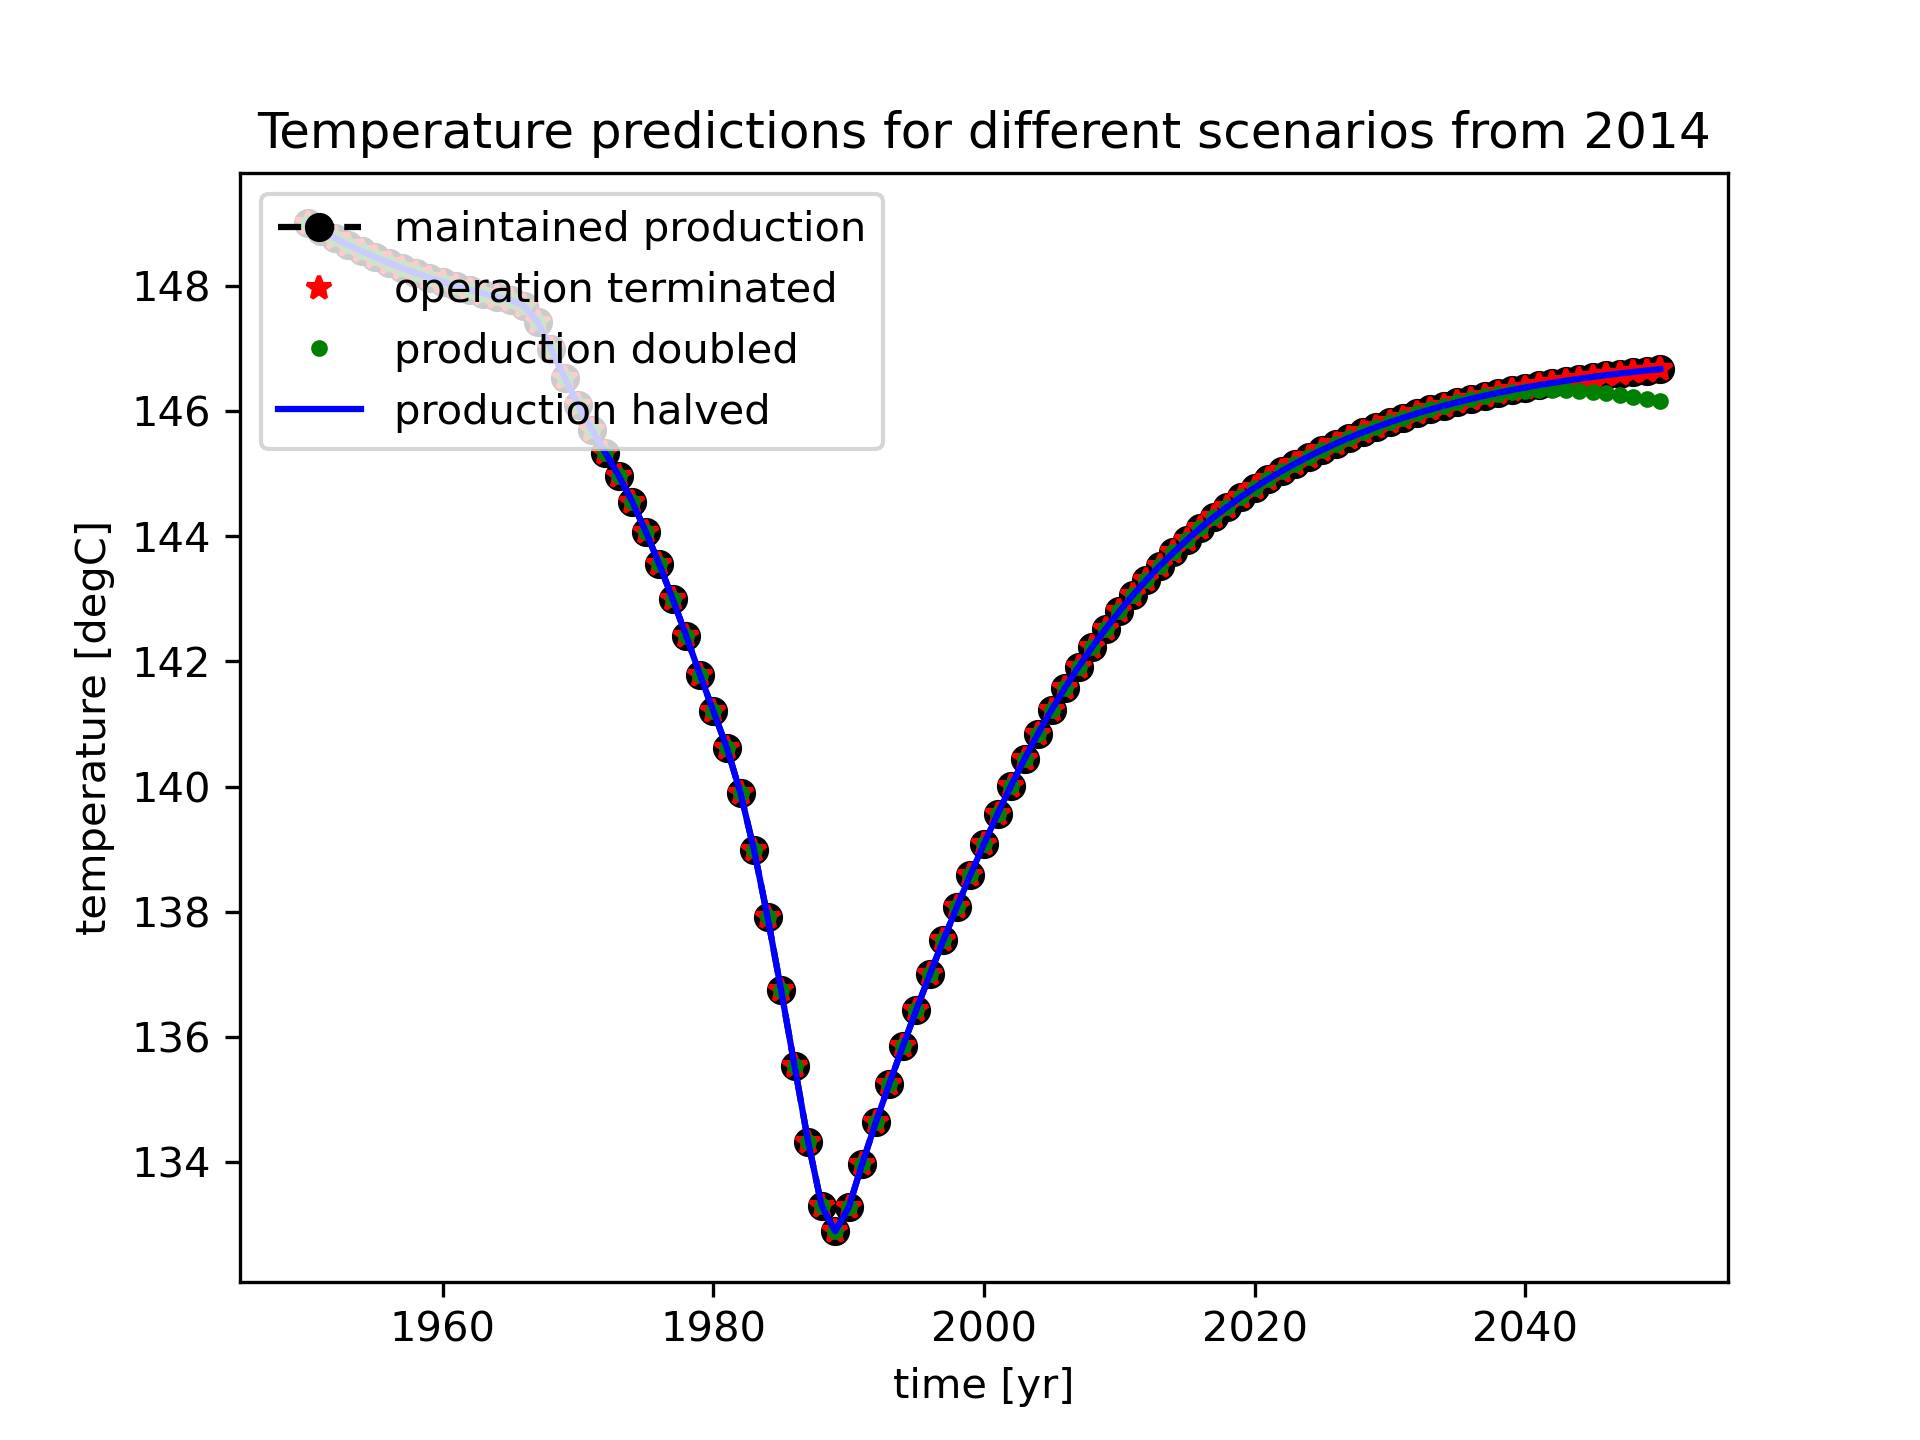
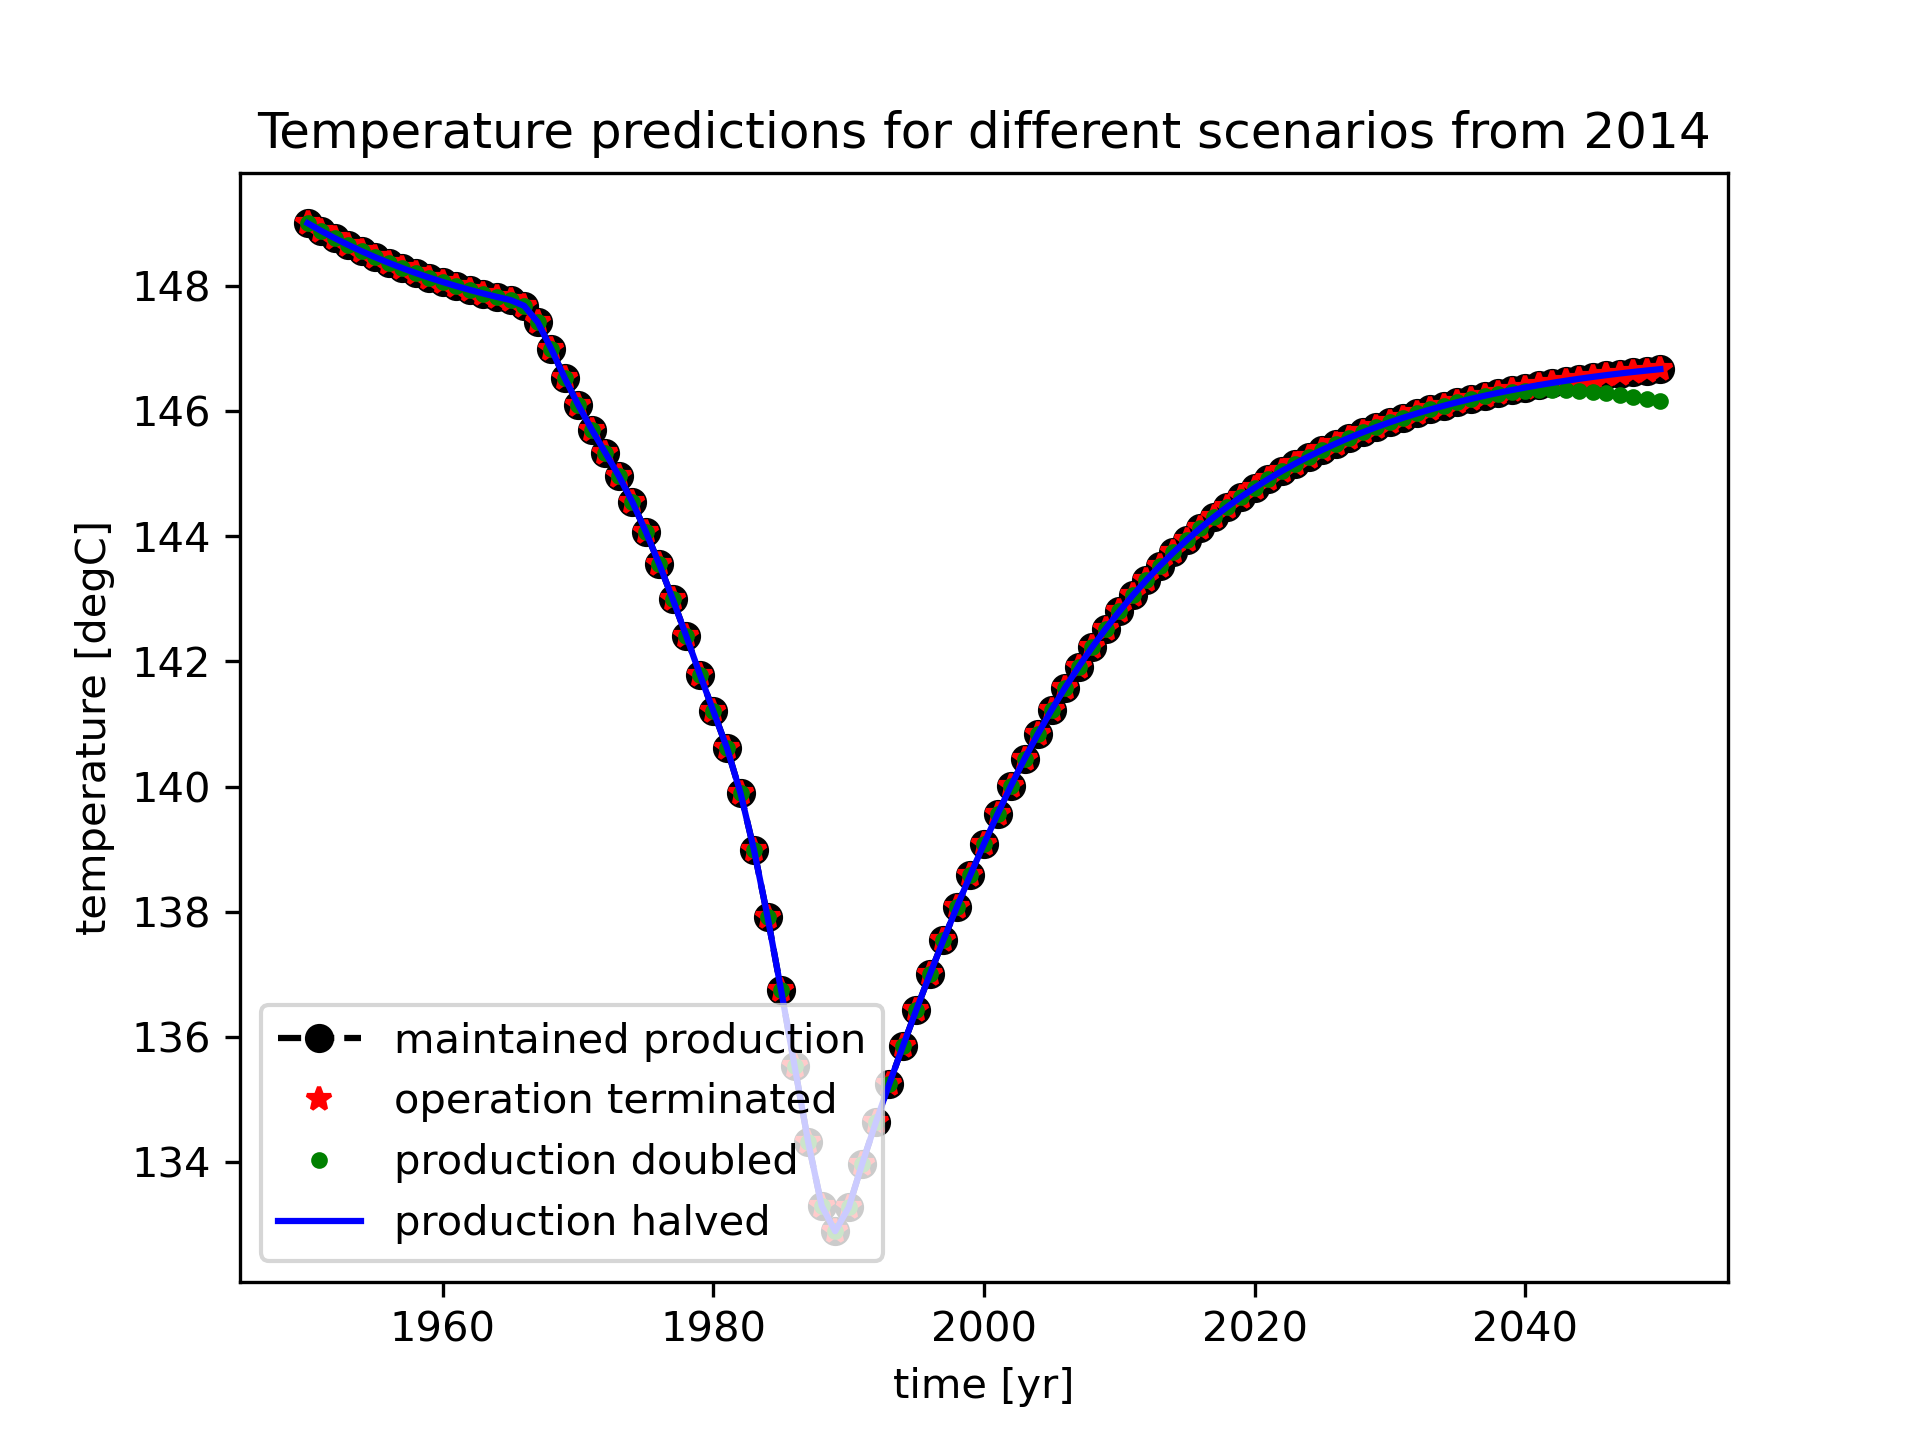
updated temperature forecast

Changed region(s): [[0.125, 0.6875, 0.4688, 0.875], [0.125, 0.125, 0.4688, 0.3125], [0.4375, 0.2812, 0.4688, 0.3125]]

diff --git a/code/temperature.py b/code/temperature.py
@@ -186,7 +186,7 @@ def forecast(time0, t1, dt, x0, t, pr1, pr2, pr3, pr4, a, b, p0, t0):
 
     lns = ln1 + ln2 + ln3 + ln4
     labs = [l.get_label() for l in lns]
-    ax1.legend(lns, labs, loc=2)
+    ax1.legend(lns, labs, loc=3)
     ax1.set_ylabel('temperature [degC]')
     ax1.set_xlabel('time [yr]')
     ax1.set_title('Temperature predictions for different scenarios from 2014')
